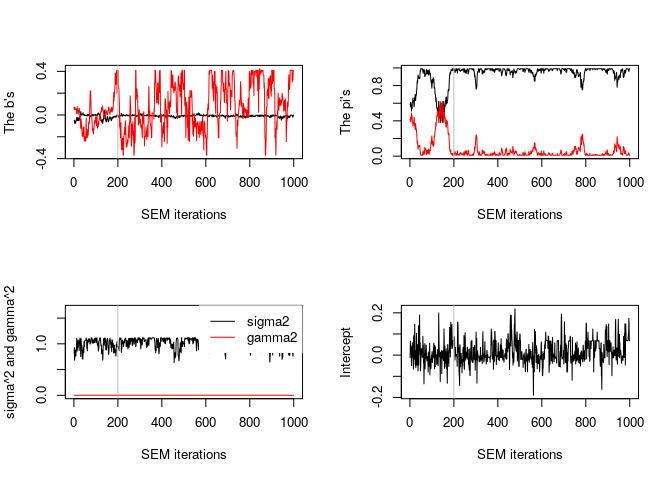
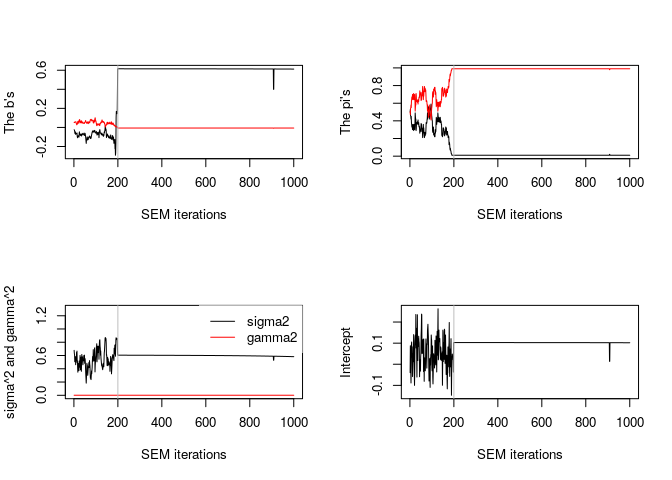
move citation before example

diff --git a/README.md b/README.md
@@ -39,135 +39,6 @@ And the development version from [GitHub](https://github.com/) with:
 remotes::install_github("mcanouil/clere")
 ```
 
-## Example
-
-``` r
-library(clere)
-
-x <- matrix(rnorm(50 * 100), nrow = 50, ncol = 100)
-y <- rnorm(50)
-
-model <- fitClere(y = y, x = x, g = 2, plotit = FALSE)
-model
-#>  ~~~ Class: Clere ~~~
-#>  ~ y : [50]  0.9355  0.1357  0.2813  1.1892 -1.8425  1.9102
-#>  ~ x : [50x100]
-#>                  1        2        3        4        5        .    
-#>         1     -0.05485 -0.32084  0.79872  0.87154  1.38732 ........
-#>         2     -0.24127  0.39965  0.28376 -0.13829  1.40286 ........
-#>         3     -0.86804 -0.60867  0.18791 -0.12006 -0.44457 ........
-#>         4     -0.17136 -1.08940 -0.83413 -0.12792 -2.34753 ........
-#>         5     -0.94247  0.62299 -0.84125  0.99282  0.32481 ........
-#>         .     ........ ........ ........ ........ ........ ........
-#> 
-#>  ~ n : 50
-#>  ~ p : 100
-#>  ~ g : 2
-#>  ~ nItMC : 50
-#>  ~ nItEM : 1000
-#>  ~ nBurn : 200
-#>  ~ dp : 5
-#>  ~ nsamp : 200
-#>  ~ sparse : FALSE
-#>  ~ analysis : "fit"
-#>  ~ algorithm : "SEM"
-#>  ~ initialized : FALSE
-#>  ~ maxit : 500
-#>  ~ tol : 0.001
-#>  ~ seed : 902
-#>  ~ b : [2] -0.008473  0.094632
-#>  ~ pi : [2] 0.9643 0.0357
-#>  ~ sigma2 : 1.018
-#>  ~ gamma2 : 5.681e-05
-#>  ~ intercept : 0.01699
-#>  ~ likelihood : -80.93
-#>  ~ entropy : 14.32
-#>  ~ P : [100x2]
-#>              Group 1 Group 2
-#>         1     0.995   0.005 
-#>         2     0.980   0.020 
-#>         3     0.985   0.015 
-#>         4     0.955   0.045 
-#>         5     0.925   0.075 
-#>         .    ....... .......
-#> 
-#>  ~ theta : [1000x8]
-#>                intercept    b1        b2        pi1       pi2        .    
-#>          1     -0.011869 -0.048576  0.069894  0.580000  0.420000 .........
-#>          2      0.065421 -0.047632  0.047750  0.600000  0.400000 .........
-#>          3      0.026877 -0.068462  0.066144  0.560000  0.440000 .........
-#>          4      0.008423 -0.077084  0.073649  0.610000  0.390000 .........
-#>          5      0.044046 -0.064794  0.057828  0.580000  0.420000 .........
-#>          .     ......... ......... ......... ......... ......... .........
-#> 
-#>  ~ Zw : [100x200]
-#>        1 2 3 4 5 .
-#>      1 0 0 0 0 0 .
-#>      2 0 0 0 0 0 .
-#>      3 0 0 0 0 0 .
-#>      4 0 0 0 0 0 .
-#>      5 0 0 0 0 0 .
-#>      . . . . . . .
-#> 
-#>  ~ Bw : [100x200]
-#>                    1         2         3         4         5         .    
-#>          1     -0.015950  0.004674 -0.021297 -0.018465 -0.013852 .........
-#>          2     -0.013368 -0.007140 -0.002877 -0.008043 -0.013285 .........
-#>          3     -0.014461 -0.016768 -0.004366 -0.017456 -0.013564 .........
-#>          4     -0.005849 -0.011818 -0.009505 -0.005495  0.003009 .........
-#>          5     -0.002955 -0.009576 -0.005183 -0.011437 -0.001869 .........
-#>          .     ......... ......... ......... ......... ......... .........
-#> 
-#>  ~ Z0 : NA
-#>  ~ message : NA
-
-plot(model)
-```
-
-<img src="man/figures/README-example-1.png" width="100%" />
-
-``` r
-
-clus <- clusters(model, threshold = NULL)
-clus
-#>   [1] 1 1 1 1 1 1 1 1 1 1 1 1 1 1 1 1 1 1 1 1 1 1 1 1 1 1 1 1 1 1 1 1 1 1 1 1 1
-#>  [38] 1 1 1 1 1 1 1 1 1 1 1 1 1 1 1 1 1 1 1 1 1 1 1 1 1 1 1 1 1 1 1 1 1 1 1 1 1
-#>  [75] 1 1 1 1 1 1 1 1 1 1 1 1 1 1 1 1 1 1 1 1 1 1 1 1 1 1
-
-predict(model, newx = x + 1)
-#>  [1] -0.4896918 -0.4502099 -0.4667479 -0.4771389 -0.5566632 -0.3100903
-#>  [7] -0.5259593 -0.3611448 -0.5393856 -0.4735279 -0.3774606 -0.4527907
-#> [13] -0.6209860 -0.4837953 -0.5068788 -0.4988797 -0.6363064 -0.4733052
-#> [19] -0.4792310 -0.4875776 -0.4106795 -0.5060970 -0.4494433 -0.4713816
-#> [25] -0.5928116 -0.5126168 -0.3145244 -0.4215091 -0.4486801 -0.4760081
-#> [31] -0.6509478 -0.4830134 -0.3561554 -0.4829253 -0.3673193 -0.4054195
-#> [37] -0.4178948 -0.5059111 -0.4855992 -0.4516640 -0.5021294 -0.4752771
-#> [43] -0.4636760 -0.5047719 -0.5787894 -0.5492506 -0.3232664 -0.5104684
-#> [49] -0.4589390 -0.4405581
-
-summary(model)
-#>  -------------------------------
-#>  | CLERE | Yengo et al. (2016) |
-#>  -------------------------------
-#> 
-#>  Model object for  2 groups of variables ( user-specified )
-#> 
-#>  ---
-#>  Estimated parameters using SEM algorithm are
-#>  intercept = 0.01699
-#>  b         = -0.008473    0.094632
-#>  pi        = 0.9643  0.0357
-#>  sigma2    = 1.018
-#>  gamma2    = 5.681e-05
-#> 
-#>  ---
-#>  Log-likelihood =  -80.93 
-#>  Entropy        =  14.319 
-#>  AIC            =  173.86 
-#>  BIC            =  185.33 
-#>  ICL            =  199.65
-```
-
 ## Citing clere
 
 <p>
@@ -190,6 +61,135 @@ Journal</em>, <b>8</b>(1), 92–106. doi:
       volume = {8},
       number = {1},
     }
+
+## Example
+
+``` r
+library(clere)
+
+x <- matrix(rnorm(50 * 100), nrow = 50, ncol = 100)
+y <- rnorm(50)
+
+model <- fitClere(y = y, x = x, g = 2, plotit = FALSE)
+model
+#>  ~~~ Class: Clere ~~~
+#>  ~ y : [50] -0.3663  1.0417  0.8401  0.6298  1.3977 -0.4709
+#>  ~ x : [50x100]
+#>                  1        2        3        4        5        .    
+#>         1      0.54299  0.54408  1.73588 -0.05461 -0.94133 ........
+#>         2      1.11327 -1.00079 -0.71194 -2.17234  0.38946 ........
+#>         3     -0.97223  0.03499 -1.20295 -1.32578 -1.12280 ........
+#>         4      0.71881 -0.92304  0.22933  1.22511  0.35874 ........
+#>         5     -0.53657  0.01233 -0.72067 -0.10695 -1.71511 ........
+#>         .     ........ ........ ........ ........ ........ ........
+#> 
+#>  ~ n : 50
+#>  ~ p : 100
+#>  ~ g : 2
+#>  ~ nItMC : 50
+#>  ~ nItEM : 1000
+#>  ~ nBurn : 200
+#>  ~ dp : 5
+#>  ~ nsamp : 200
+#>  ~ sparse : FALSE
+#>  ~ analysis : "fit"
+#>  ~ algorithm : "SEM"
+#>  ~ initialized : FALSE
+#>  ~ maxit : 500
+#>  ~ tol : 0.001
+#>  ~ seed : 945
+#>  ~ b : [2]  0.613709 -0.006548
+#>  ~ pi : [2] 0.01002 0.98998
+#>  ~ sigma2 : 0.5981
+#>  ~ gamma2 : 0.0001097
+#>  ~ intercept : 0.1022
+#>  ~ likelihood : -64.18
+#>  ~ entropy : 0
+#>  ~ P : [100x2]
+#>              Group 1 Group 2
+#>         1       0       1   
+#>         2       0       1   
+#>         3       0       1   
+#>         4       0       1   
+#>         5       0       1   
+#>         .    ....... .......
+#> 
+#>  ~ theta : [1000x8]
+#>                intercept    b1        b2        pi1       pi2        .    
+#>          1     -0.03965  -0.02462   0.05342   0.50000   0.50000  .........
+#>          2      0.08769  -0.02585   0.05114   0.53000   0.47000  .........
+#>          3      0.03731  -0.03260   0.05189   0.46000   0.54000  .........
+#>          4     -0.03508  -0.05160   0.05514   0.45000   0.55000  .........
+#>          5     -0.08861  -0.06464   0.05811   0.42000   0.58000  .........
+#>          .     ......... ......... ......... ......... ......... .........
+#> 
+#>  ~ Zw : [100x200]
+#>        1 2 3 4 5 .
+#>      1 1 1 1 1 1 .
+#>      2 1 1 1 1 1 .
+#>      3 1 1 1 1 1 .
+#>      4 1 1 1 1 1 .
+#>      5 1 1 1 1 1 .
+#>      . . . . . . .
+#> 
+#>  ~ Bw : [100x200]
+#>                     1          2          3          4          5          .     
+#>          1      -7.080e-03 -5.029e-03 -1.654e-02 -9.838e-03 -1.157e-02 ..........
+#>          2       1.664e-03 -3.672e-05 -1.369e-02  5.982e-03 -1.140e-02 ..........
+#>          3      -6.606e-03 -1.330e-02  3.800e-03 -1.147e-02 -1.297e-02 ..........
+#>          4      -8.453e-03  8.423e-03 -1.493e-03  5.931e-03  1.637e-02 ..........
+#>          5      -2.101e-02 -5.158e-03 -7.439e-03 -8.822e-03 -1.320e-02 ..........
+#>          .      .......... .......... .......... .......... .......... ..........
+#> 
+#>  ~ Z0 : NA
+#>  ~ message : NA
+
+plot(model)
+```
+
+<img src="man/figures/README-example-1.png" width="100%" />
+
+``` r
+
+clus <- clusters(model, threshold = NULL)
+clus
+#>   [1] 2 2 2 2 2 2 2 2 2 2 2 2 2 2 2 2 2 2 2 2 2 2 2 2 2 2 2 2 2 2 2 2 2 2 2 2 2
+#>  [38] 2 2 2 2 2 2 2 2 2 2 2 2 2 2 2 2 2 2 2 2 2 2 2 2 2 2 2 2 2 2 2 2 2 2 2 2 2
+#>  [75] 2 2 2 2 2 2 2 2 2 2 2 2 2 2 2 1 2 2 2 2 2 2 2 2 2 2
+
+predict(model, newx = x + 1)
+#>  [1] -0.41014043  0.58417440  0.07565606  0.12651690  0.10691068 -0.51438081
+#>  [7] -0.53730664 -0.38719372  0.96052339  1.04059573 -0.47278984 -0.54533104
+#> [13] -0.14680892  0.04529841 -0.44803772  0.48753442 -1.03283097 -0.96206984
+#> [19]  0.90252948  0.35887126 -0.59158591  0.27172199  0.73862087 -0.13525905
+#> [25]  1.14287637  0.37955118 -0.21296002 -0.66091713  0.22797485  0.04944170
+#> [31]  0.52612573 -0.15168824 -0.78401104 -0.53532663 -0.44697030  0.19048671
+#> [37]  0.10341728 -0.37691391 -0.69165509  0.52461656  0.60826835  0.01190567
+#> [43] -0.50238925  0.22288924 -0.28840397 -0.43573542 -0.26704384  0.49779102
+#> [49]  0.08028461  0.41752563
+
+summary(model)
+#>  -------------------------------
+#>  | CLERE | Yengo et al. (2016) |
+#>  -------------------------------
+#> 
+#>  Model object for  2 groups of variables ( user-specified )
+#> 
+#>  ---
+#>  Estimated parameters using SEM algorithm are
+#>  intercept = 0.1022
+#>  b         =  0.613709   -0.006548
+#>  pi        = 0.01002 0.98998
+#>  sigma2    = 0.5981
+#>  gamma2    = 0.0001097
+#> 
+#>  ---
+#>  Log-likelihood =  -64.18 
+#>  Entropy        =  0 
+#>  AIC            =  140.36 
+#>  BIC            =  151.84 
+#>  ICL            =  151.84
+```
 
 ## Getting help
 
